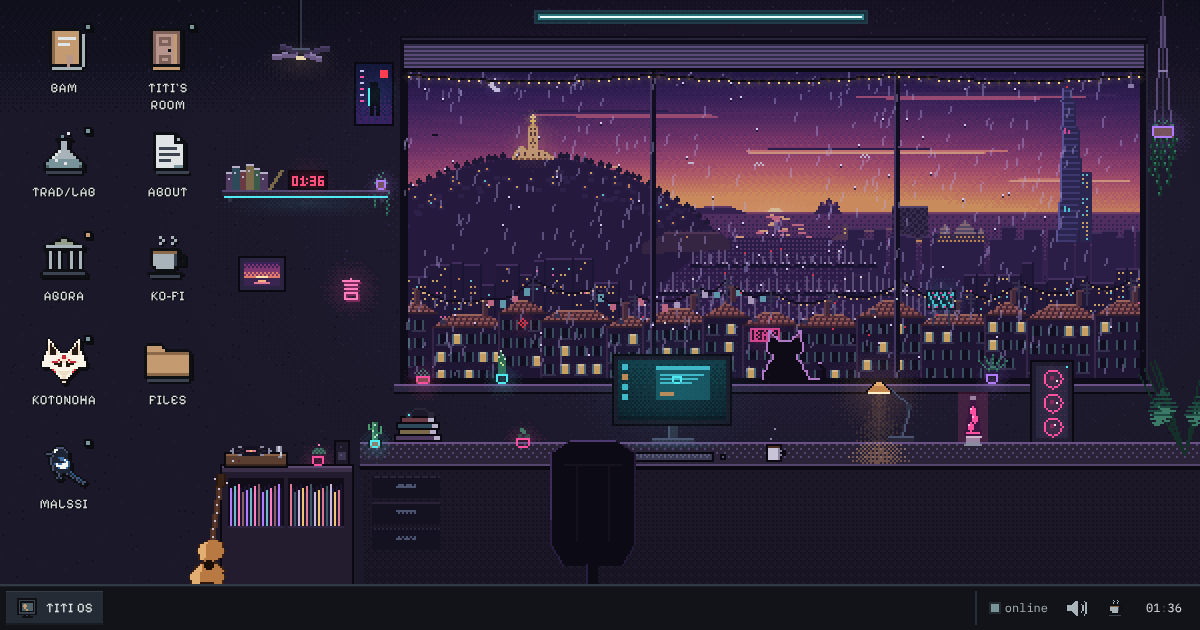
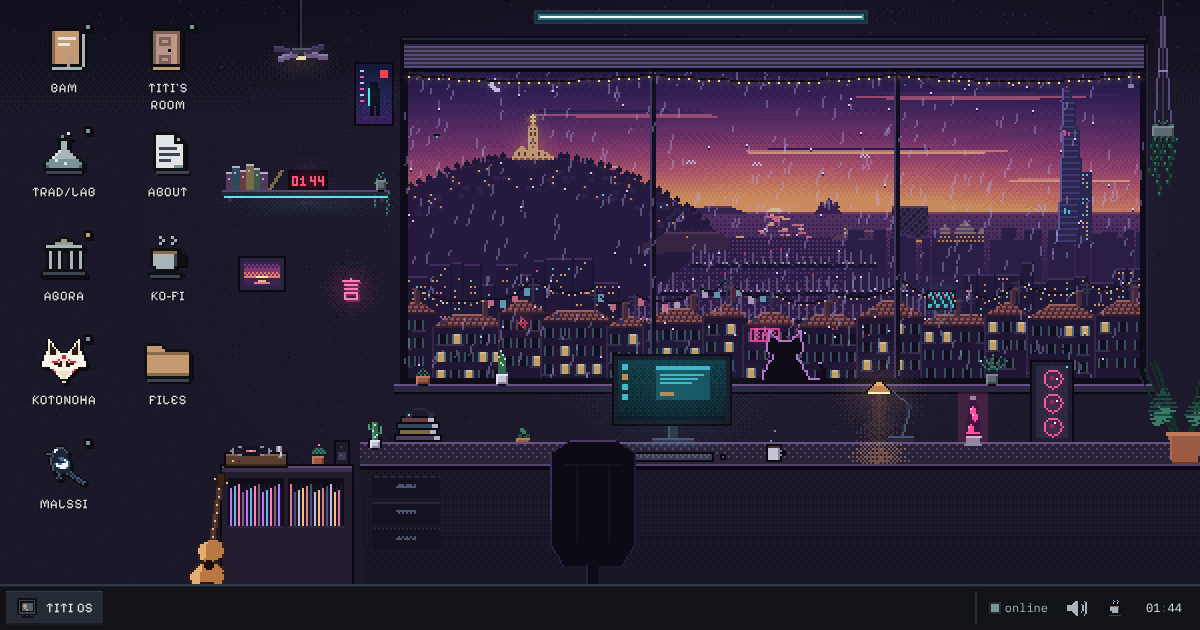
Plain pots for every plant, no neon
Claude-Session: https://claude.ai/code/session_01HMAiMdGuUMKM7vtFiUVAg7

diff --git a/src/components/scene.js b/src/components/scene.js
@@ -1100,18 +1100,20 @@ export function createScene(canvas, { lamp = true, rain = true, blinds = false }
     hit("cyberposter", x - 1, y - 1, x + w + 1, y + h + 1);
   }
 
-  /** Neon rim on a plant pot; it keeps glowing when the room goes dark. */
+  /** A plain plant pot: terracotta, ceramic or stone, picked from the old neon colour. */
+  const POTS = {
+    [C.neonPink]: ["#9A5A44", "#C07A5A", "#6A3A2E"],
+    [C.neonCyan]: ["#C9C3D8", "#E6E1F0", "#8A84A0"],
+    "#B27CFF": ["#5E6A72", "#7E8A92", "#3E474E"],
+  };
   function neonPot(P, x, y, w, h, c) {
-    P.glow(x + w / 2, y + h / 2, w + 5, c, 0.22);
-    P.hline(x, x + w - 1, y, c);
-    P.hline(x + 1, x + w - 2, y + h - 1, c);
-    P.vline(x, y, y + h - 2, c);
-    P.vline(x + w - 1, y, y + h - 2, c);
-    const pix = [];
-    for (let i = x; i < x + w; i++) pix.push([i, y]);
-    for (let i = x + 1; i < x + w - 1; i++) pix.push([i, y + h - 1]);
-    for (let j = y; j < y + h - 1; j++) pix.push([x, j], [x + w - 1, j]);
-    dyn.pots.push({ pix, c });
+    const [body, lit, dark] = POTS[c] || POTS[C.neonPink];
+    P.rect(x, y, w, h, body);
+    P.hline(x, x + w - 1, y, lit);
+    P.vline(x, y, y + h - 1, lit);
+    P.vline(x + w - 1, y + 1, y + h - 1, dark);
+    P.hline(x + 1, x + w - 2, y + h - 1, dark);
+    P.hline(x + 1, x + w - 2, y + h, C.outline);
   }
 
   /** A potted plant in a neon pot. kind: snake | round | pothos | fern */
@@ -1627,6 +1629,12 @@ export function createScene(canvas, { lamp = true, rain = true, blinds = false }
         P.hline(lx - 4 + Math.abs(k), lx + 4 - Math.abs(k), ly, k < 0 ? C.leafLit : C.leaf);
       }
     }
+    // Its pot, in front of the stems.
+    P.poly([[x - 8, d - 4], [x + 9, d - 4], [x + 7, d + 10], [x - 6, d + 10]], "#9A5A44");
+    P.hline(x - 9, x + 9, d - 5, "#C07A5A");
+    P.hline(x - 9, x + 9, d - 4, "#C07A5A");
+    P.vline(x - 7, d - 3, d + 8, "#B06A4E");
+    P.hline(x - 6, x + 7, d + 10, "#6A3A2E");
   }
 
   /* ---------------------------------------------------------- per frame */
@@ -1952,10 +1960,6 @@ export function createScene(canvas, { lamp = true, rain = true, blinds = false }
       ctx.fillRect(0, 0, W, H);
     }
     // Light sources stay bright through the dark.
-    for (const pot of dyn.pots) {
-      ctx.fillStyle = pot.c;
-      for (const [x, y] of pot.pix) ctx.fillRect(x, y, 1, 1);
-    }
     if (dyn.tube) {
       const { x0, x1, y } = dyn.tube;
       const c = NEON[neonIdx];
